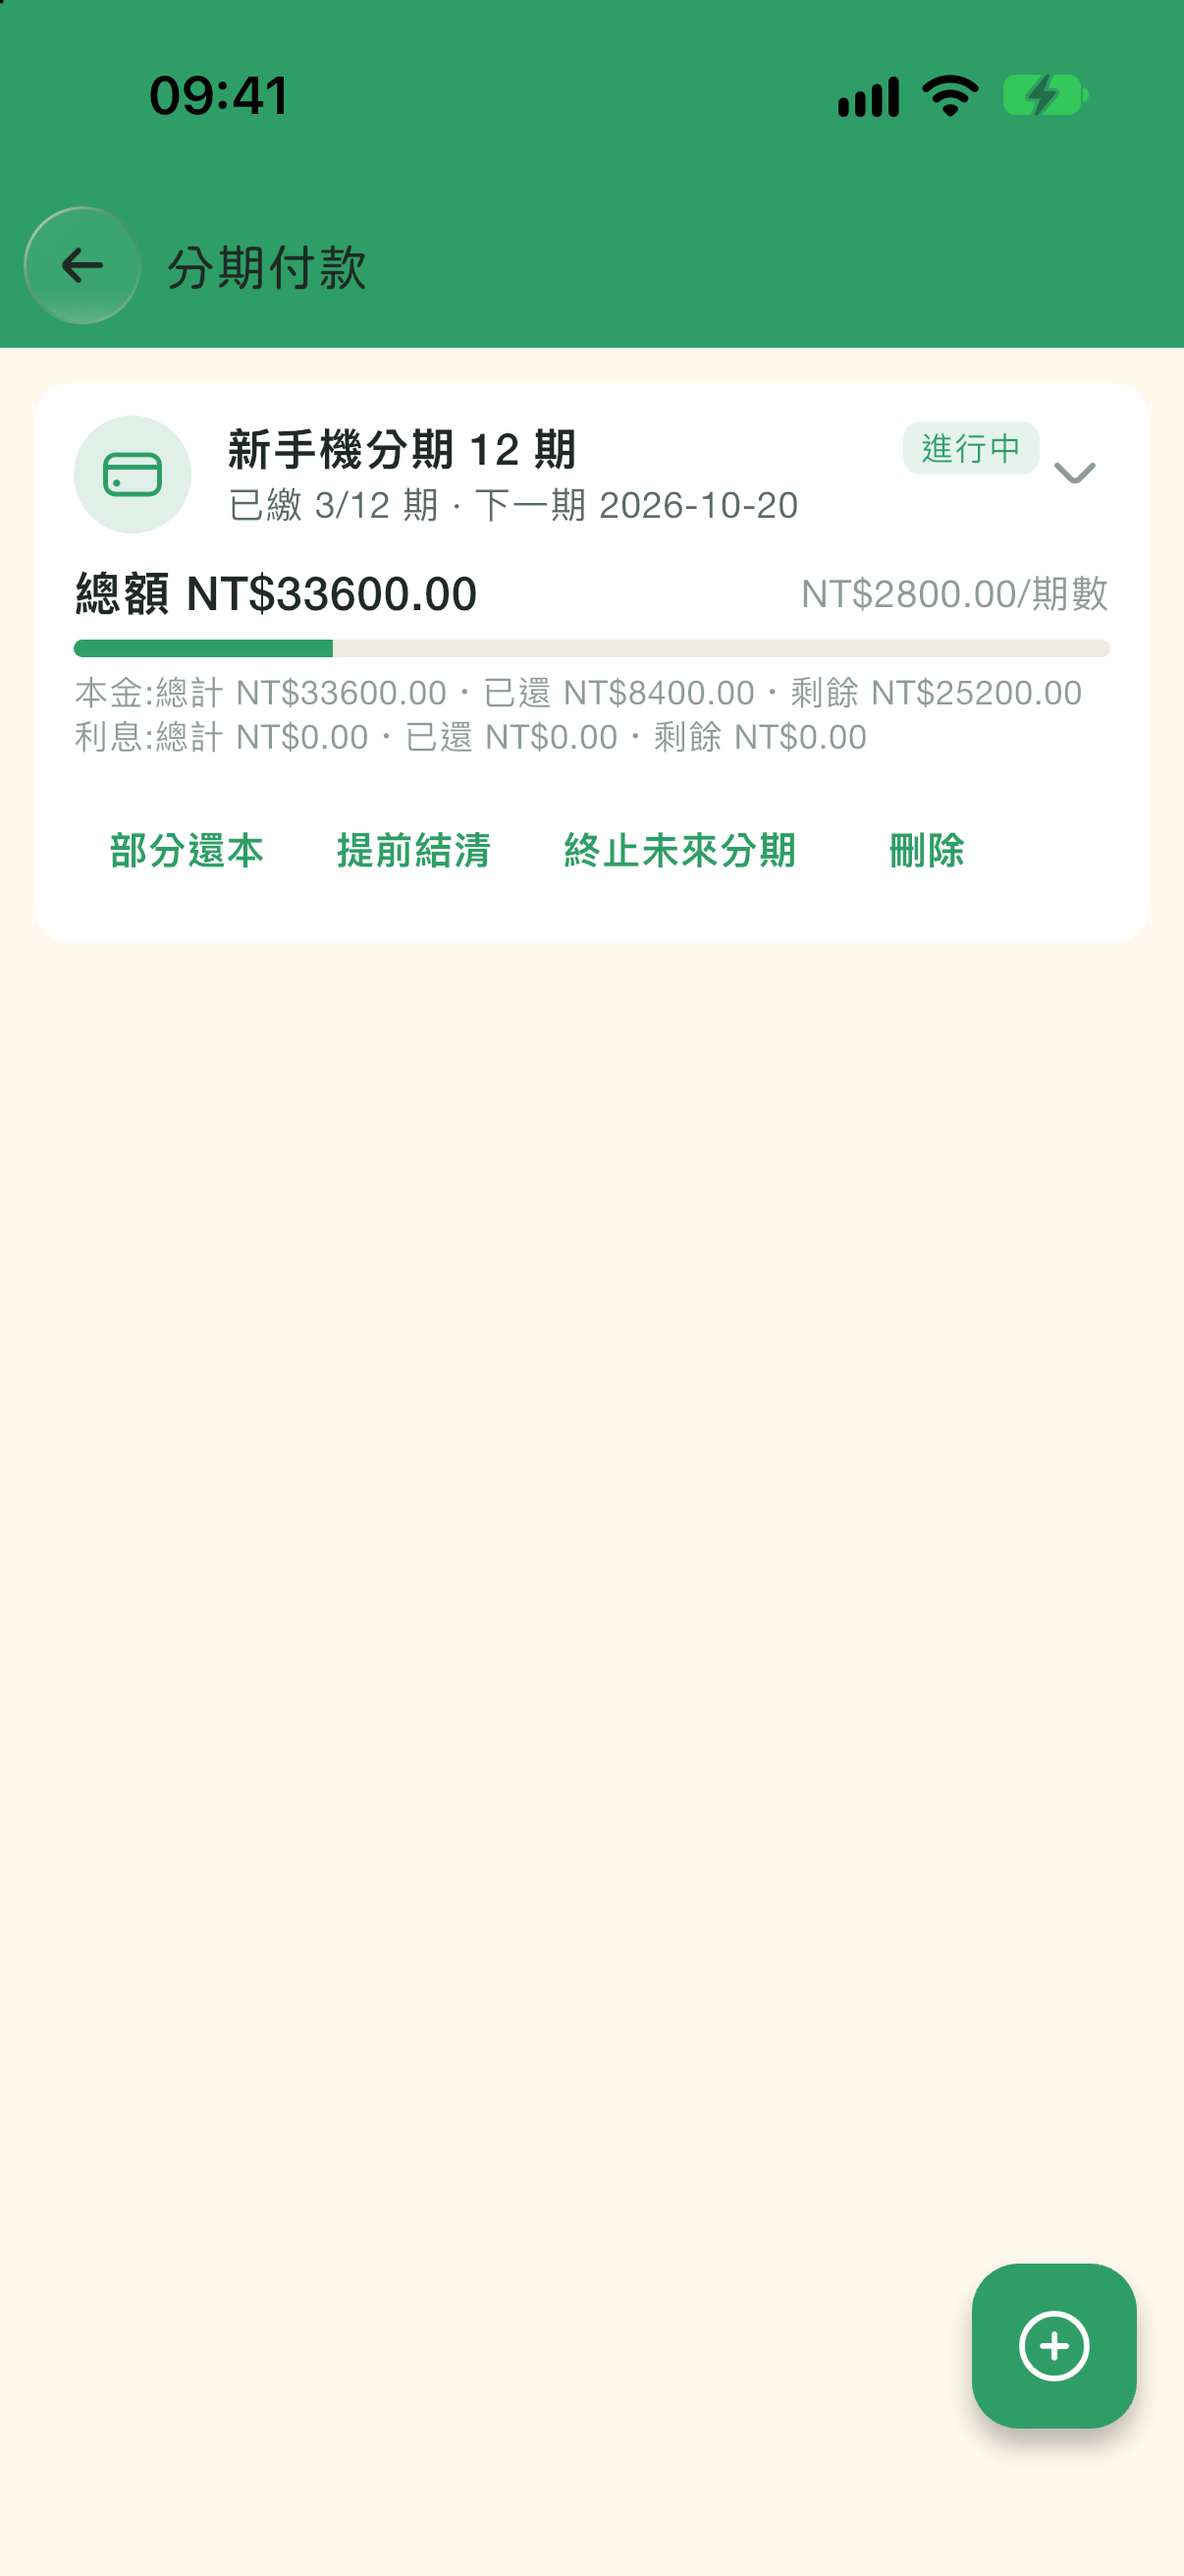
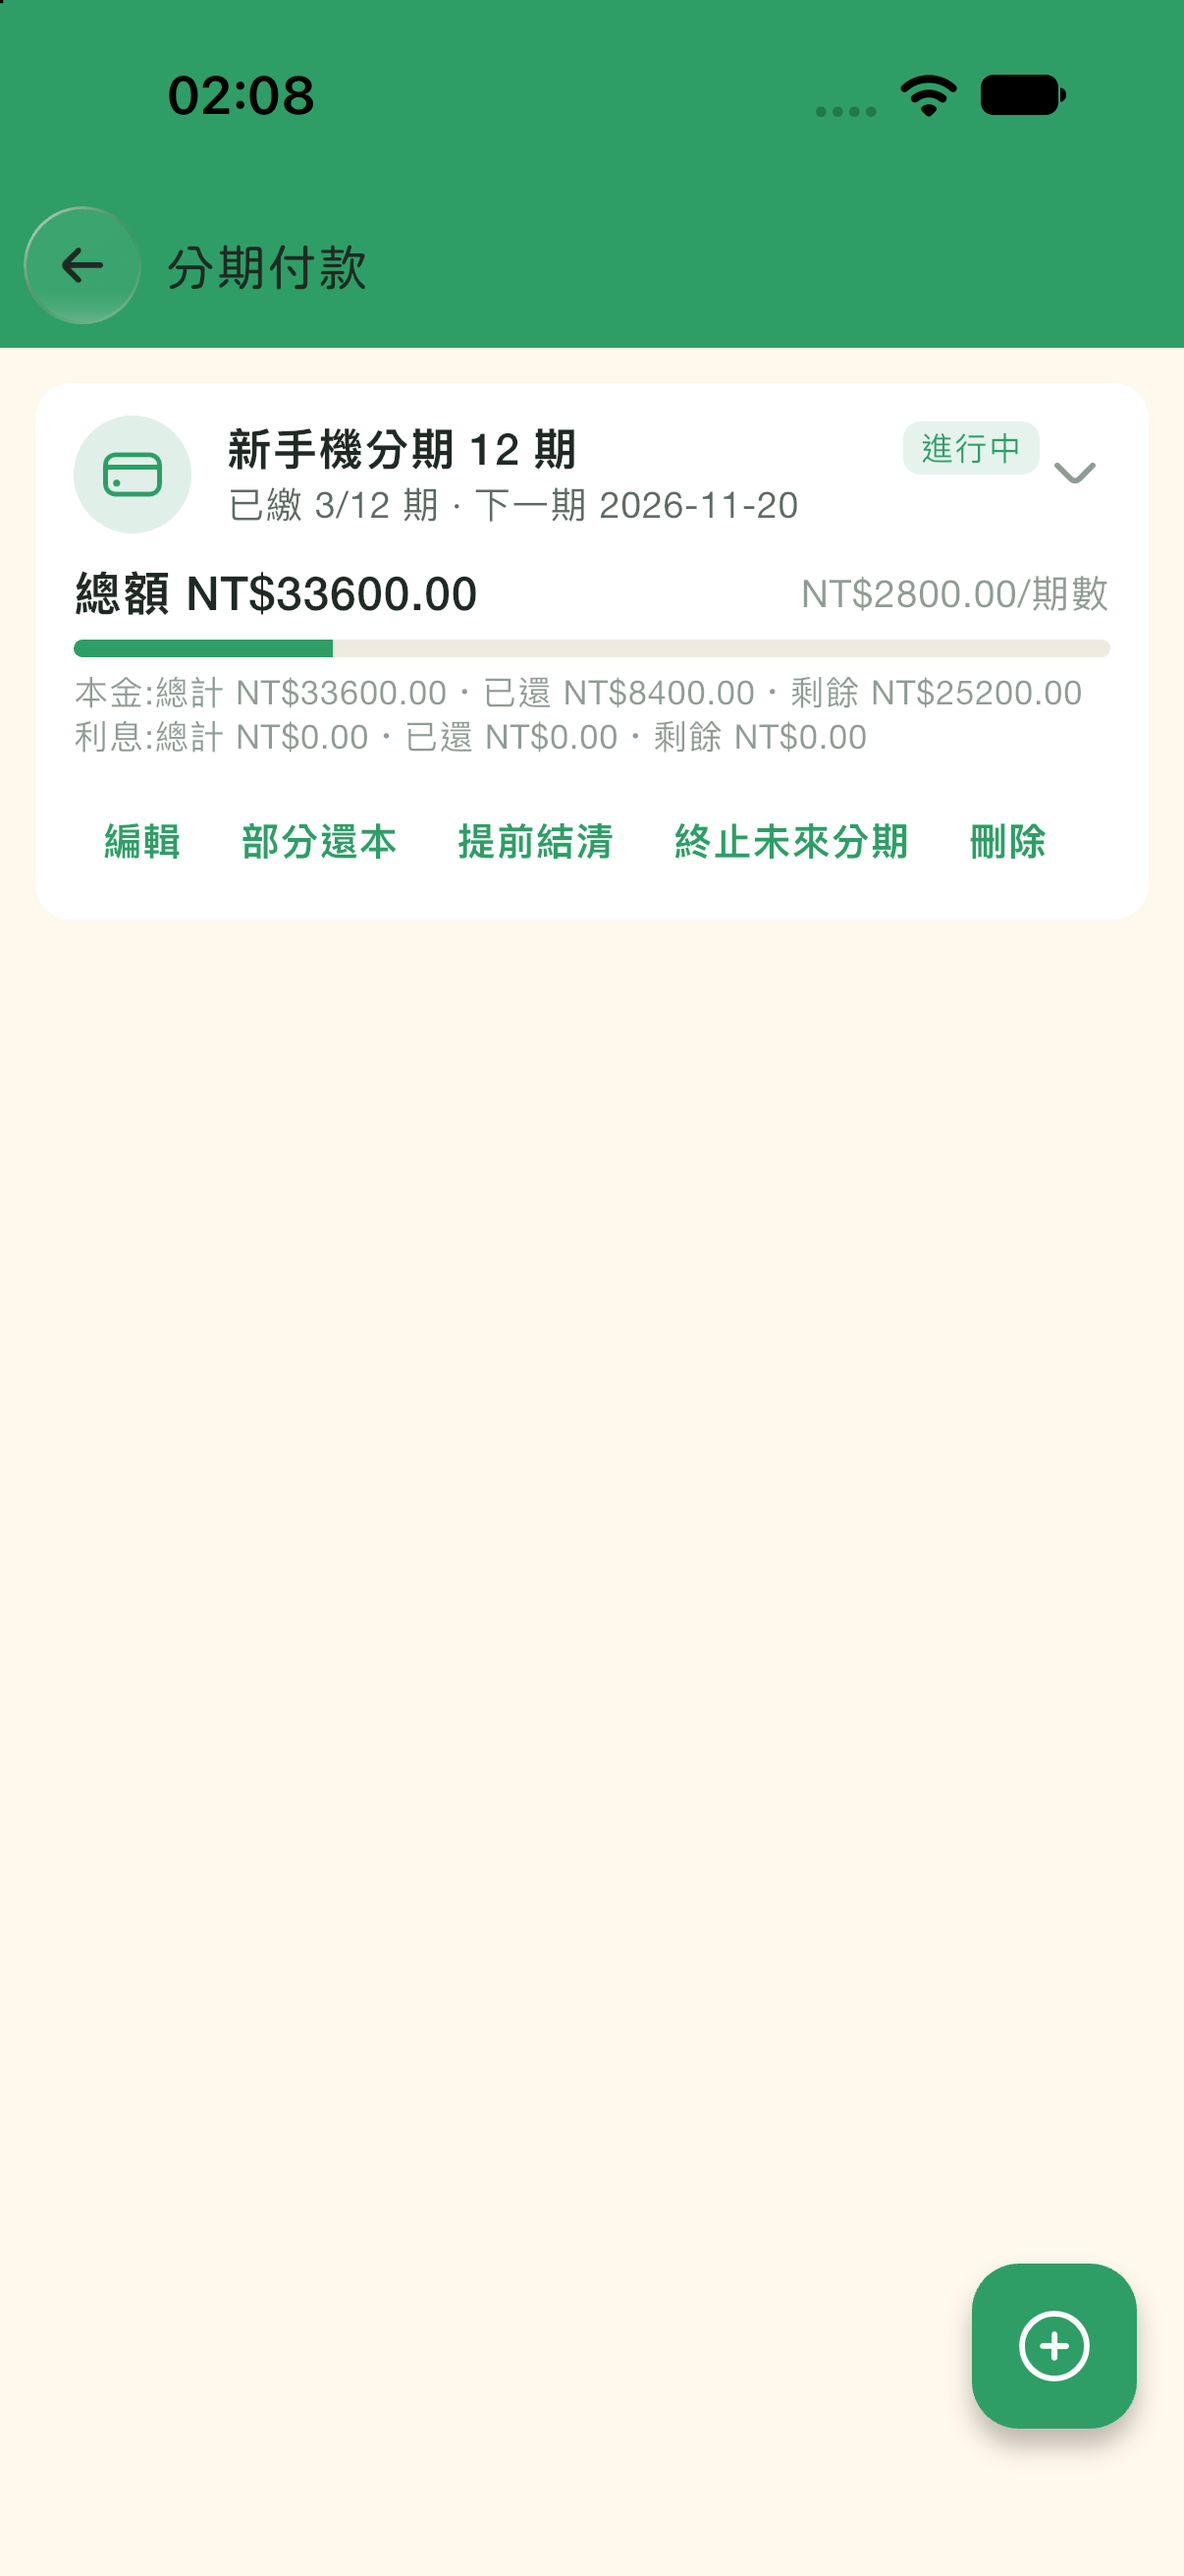
4.1.4

Changed region(s): [[0.092, 0.3089, 0.8897, 0.3398], [0.7056, 0.0309, 0.9204, 0.0618], [0.1227, 0.0309, 0.2761, 0.0618]]

diff --git a/docs/changelog.md b/docs/changelog.md
@@ -15,6 +15,11 @@ description: 帳好嗎各版本的新功能與修正亮點。
 - **App 與 Web 都能直接購買授權**：在「授權」頁選擇一般或支持者方案、月訂或年訂，用信用卡付款後授權自動啟用，也會寄信給你。已有金鑰的話，按「已有金鑰？」展開輸入框。見[方案與購買](/pricing)與[授權金鑰](./sync/license.md)。
 - **定期定額自動續扣**：月訂與年訂都可以選定期定額，比單次購買便宜，每期自動扣款並延長授權，隨時可以在授權頁取消，已付款的期間照常可用。見[取消自動續扣](./sync/license.md#取消自動續扣)。
 
+## 4.1.4
+
+- **分期付款可以編輯了**：設錯首次日期不用再刪掉重來。分期交易的編輯可選「修改此記錄」或「修改此記錄與之後各期」，開的是跟記帳一樣的編輯表單；改金額會問後面各期怎麼調整，改日期會讓之後每期都落在那一天；分期付款頁的計畫卡也能「編輯」整個計畫。入口：App「規劃 → 未來的錢 → 分期付款」，Web 頭像選單「記帳工具 → 分期付款」。見[分期付款](./record/installment.md#修改這一期與之後各期)。
+- **修正分期付款的畫面排版**：分期交易的編輯選單在小螢幕或大字級下底部不再被截斷，分期計畫卡的「刪除」也不再單獨掉到最下面一行。
+
 ## 4.1.3
 
 - **修正農場臭蟲**：修正種菜時誤判時間倒退的問題，並移除農場操作時的「正在同步…」提示。

diff --git a/HOW_TO_UPDATE_DOCS.md b/HOW_TO_UPDATE_DOCS.md
@@ -161,3 +161,9 @@ git push origin main
 - App 圖片由正式 Flutter 元件與隔離示範狀態渲染，沒有 OS 狀態列，不是裝置端截圖或模型準確率驗證。來源在 `sim/ondevice410/capture_test.dart`；重拍時暫放 App 的 `test/` 下執行，完成後移除臨時檔。
 - Web 圖片在瀏覽器直接呈現正式 `SettingsAiPage` 與示範 profile，未接觸正式帳號。暫存入口來源在 `webshots/ondevice410/`，原產品目錄的臨時入口已清除。
 - 使用虛構資料與無效示範金鑰；本次不部署、不 commit。完整驗證及範圍見 App repo `docs/changes/2026-10-29-on-device-ai-manual.md`。
+
+### 2026-11-04：分期付款編輯（4.1.4）
+
+- 更新 `record/installment.md`：新增「修改這一期與之後各期」「編輯整個計畫」，調整計畫表格與單筆交易的編輯說明（五選一），移除「建立後不能改」提示；更新紀錄新增 4.1.4。
+- 圖片：重拍 `record/installment-3.png`（計畫卡新增「編輯」按鈕）；新增 `installment-5.png`（「這一期要怎麼修改？」範圍選單）、`installment-6.png`（編輯表單頂部的範圍提示列）。以 iOS 模擬器（iPhone 18 Pro）截圖，示範分期為臨時寫入的虛構資料，拍完已清除。
+- 其餘分期截圖畫面未變，沿用。完整說明見 App repo `docs/changes/2026-11-04-installment-edit.md`。
